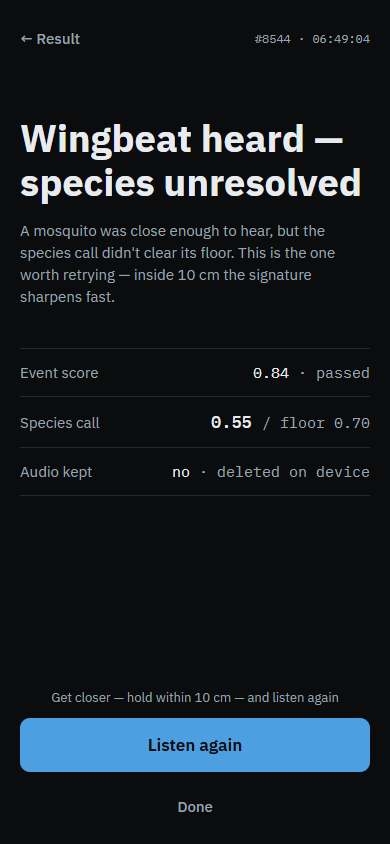
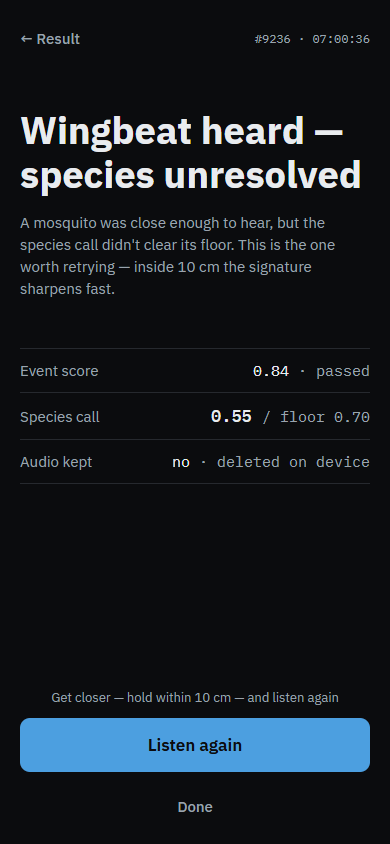
slice 3 fix 1: abstain readings through the seam (red-first), spacing to scale

diff --git a/app/src/app/result.tsx b/app/src/app/result.tsx
@@ -4,7 +4,12 @@ import { Pressable, Text, View } from 'react-native';
 import Animated, { FadeIn } from 'react-native-reanimated';
 import { SafeAreaView } from 'react-native-safe-area-context';
 
-import { BAND_SNR_FLOOR_DB, MED_THRESHOLD, MSC_THRESHOLD } from '@/inference/gating';
+import {
+  type AbstainReadings,
+  BAND_SNR_FLOOR_DB,
+  MED_THRESHOLD,
+  MSC_THRESHOLD,
+} from '@/inference/gating';
 import { useReducedMotion } from '@/lib/useReducedMotion';
 
 type AbstainReason = 'no_mosquito' | 'not_confident' | 'too_noisy';
@@ -22,57 +27,76 @@ type ReadoutRow = {
 type AbstainCopy = {
   headline: string;
   body: string;
-  rows: ReadoutRow[];
+  rows: (r: AbstainReadings) => ReadoutRow[];
   guidance: string;
 };
 
-// Readout values are seeded display values: classify() returns only the Verdict, so the raw
-// MED/MSC/SNR numbers never reach this screen. Floors are real (imported from gating.ts);
-// the scores are plausible instrument readings consistent with each gate's veto order.
-// ponytail: when the pipeline exposes RawInference alongside the Verdict, serialize
-// medScore/mscScores/bandSnrDb through the route params and delete this map.
+// Readout values come from judge()'s AbstainReadings, serialized through the route params by the
+// capture screen — the numbers the gates actually measured, absent when a gate never ran.
+const score = (n: number | undefined) => (typeof n === 'number' && isFinite(n) ? n.toFixed(2) : '—');
+const db = (n: number | undefined) => (typeof n === 'number' && isFinite(n) ? `${n.toFixed(1)} dB` : '—');
+const AUDIO_ROW: ReadoutRow = { label: 'Audio kept', value: 'no', suffix: '· deleted on device' };
+
 const ABSTAIN_COPY: Record<AbstainReason, AbstainCopy> = {
   no_mosquito: {
     headline: 'No mosquito\nin this recording',
     body: "The clip carried no wingbeat signature. Most recordings end here — a clean no is what keeps the map honest. Nothing was saved; nothing left your phone.",
-    rows: [
-      { label: 'Event score', value: '0.21', suffix: `/ floor ${MED_THRESHOLD.toFixed(2)}` },
-      { label: 'Band SNR', value: '11.8 dB', suffix: '· usable' },
-      { label: 'Audio kept', value: 'no', suffix: '· deleted on device' },
+    rows: (r) => [
+      { label: 'Event score', value: score(r.medScore), suffix: `/ floor ${MED_THRESHOLD.toFixed(2)}` },
+      {
+        label: 'Band SNR',
+        value: db(r.bandSnrDb),
+        suffix: r.bandSnrDb >= BAND_SNR_FLOOR_DB ? '· usable' : undefined,
+      },
+      AUDIO_ROW,
     ],
     guidance: 'Get within 10 cm — under a glass is ideal',
   },
   not_confident: {
     headline: 'Wingbeat heard —\nspecies unresolved',
     body: "A mosquito was close enough to hear, but the species call didn't clear its floor. This is the one worth retrying — inside 10 cm the signature sharpens fast.",
-    rows: [
-      { label: 'Event score', value: '0.84', suffix: '· passed' },
+    rows: (r) => [
+      { label: 'Event score', value: score(r.medScore), suffix: '· passed' },
       {
         label: 'Species call',
-        value: '0.55',
+        value: score(r.mscMax),
         suffix: `/ floor ${MSC_THRESHOLD.toFixed(2)}`,
         prominent: true,
       },
-      { label: 'Audio kept', value: 'no', suffix: '· deleted on device' },
+      AUDIO_ROW,
     ],
     guidance: 'Get closer — hold within 10 cm — and listen again',
   },
   too_noisy: {
     headline: 'Too loud here\nto hear a wingbeat',
     body: 'Background sound drowned the wingbeat band before the models could judge it. Refusing beats guessing — a wrong call here would put bad data on the map.',
-    rows: [
+    rows: (r) => [
       {
         label: 'Band SNR',
-        value: '2.1 dB',
+        value: db(r.bandSnrDb),
         suffix: `/ floor ${BAND_SNR_FLOOR_DB} dB`,
         prominent: true,
       },
-      { label: 'Event score', value: '—', suffix: '· not judged' },
-      { label: 'Audio kept', value: 'no', suffix: '· deleted on device' },
+      { label: 'Event score', value: score(r.medScore), suffix: '· not judged' },
+      AUDIO_ROW,
     ],
     guidance: 'Move away from the fan, traffic or TV, then listen again',
   },
 };
+
+/** Route param → readings. Absent/garbled param (direct URL) renders honest dashes, never invents. */
+function parseReadings(param: string | undefined): AbstainReadings {
+  if (param) {
+    try {
+      const parsed = JSON.parse(param) as Partial<AbstainReadings>;
+      if (typeof parsed === 'object' && parsed !== null)
+        return { bandSnrDb: NaN, ...parsed } as AbstainReadings;
+    } catch {
+      // fall through to the empty reading set
+    }
+  }
+  return { bandSnrDb: NaN };
+}
 
 function backToCapture() {
   if (router.canGoBack()) router.back();
@@ -92,7 +116,7 @@ function useCaptureStamp(): string {
 }
 
 export default function Result() {
-  const params = useLocalSearchParams<{ kind?: string; reason?: string }>();
+  const params = useLocalSearchParams<{ kind?: string; reason?: string; readings?: string }>();
   const reducedMotion = useReducedMotion();
   const stamp = useCaptureStamp();
 
@@ -108,6 +132,7 @@ export default function Result() {
 
   const reason = (params.reason ?? 'no_mosquito') as AbstainReason;
   const copy = ABSTAIN_COPY[reason] ?? ABSTAIN_COPY.no_mosquito;
+  const rows = copy.rows(parseReadings(params.readings));
   // Verdict reveal: 240 ms fade. Under prefers-reduced-motion the entering animation is dropped
   // (reanimated also auto-disables it) — the screen appears as a plain crossfade-equivalent cut.
   const reveal = reducedMotion ? undefined : FadeIn.duration(240);
@@ -131,7 +156,7 @@ export default function Result() {
         {/* explicit flex style: className flex-1 is not applied reliably on reanimated views (web) */}
         <Animated.View entering={reveal} style={{ flex: 1 }}>
           {/* verdict */}
-          <View className="mt-14">
+          <View className="mt-12">
             <Text className="font-plex-bold text-[38px] leading-[44px] text-ink">
               {copy.headline}
             </Text>
@@ -139,12 +164,12 @@ export default function Result() {
           </View>
 
           {/* the instrument says why, in its own units */}
-          <View className="mt-10">
-            {copy.rows.map((row, i) => (
+          <View className="mt-12">
+            {rows.map((row, i) => (
               <View
                 key={row.label}
-                className={`flex-row items-center justify-between border-t border-line py-3.5 ${
-                  i === copy.rows.length - 1 ? 'border-b' : ''
+                className={`flex-row items-center justify-between border-t border-line py-3 ${
+                  i === rows.length - 1 ? 'border-b' : ''
                 }`}
               >
                 <Text className="font-plex text-[15px] text-muted">{row.label}</Text>

diff --git a/app/src/inference/gating.ts b/app/src/inference/gating.ts
@@ -37,12 +37,30 @@ export type RawInference = {
 };
 
 /**
+ * The measured numbers an abstain was judged on, populated per veto order — a gate that never ran
+ * contributes nothing (too_noisy vetoes before MED, so it carries no medScore). This is what lets
+ * the result screen show honest readouts instead of invented ones.
+ */
+export type AbstainReadings = {
+  /** Absent when the SNR veto fired before MED was judged. */
+  medScore?: number;
+  /** max(mscScores) — present only when MSC actually ran (not_confident). */
+  mscMax?: number;
+  /** Always measured; the first gate. */
+  bandSnrDb: number;
+};
+
+/**
  * Abstain is the majority outcome, not an error (specs.md §4). Three distinct reasons, because the
  * user's next action differs: nothing there / get closer / go somewhere quieter.
  */
 export type Verdict =
   | { kind: 'detected'; species: Species; confidence: number; detail?: SpeciesDetail }
-  | { kind: 'abstain'; reason: 'no_mosquito' | 'not_confident' | 'too_noisy' };
+  | {
+      kind: 'abstain';
+      reason: 'no_mosquito' | 'not_confident' | 'too_noisy';
+      readings: AbstainReadings;
+    };
 
 export const MED_THRESHOLD = 0.5;
 export const MSC_THRESHOLD = 0.7;
@@ -52,15 +70,31 @@ export const BAND_SNR_FLOOR_DB = 6;
 export function judge(raw: RawInference): Verdict {
   // Noise first: a confident-looking score on an unusable recording is the dangerous case, and
   // outdoor accuracy drops to 67.3%, so the SNR floor must be able to veto a high MSC score.
-  if (raw.bandSnrDb < BAND_SNR_FLOOR_DB) return { kind: 'abstain', reason: 'too_noisy' };
-  if (raw.medScore < MED_THRESHOLD) return { kind: 'abstain', reason: 'no_mosquito' };
+  if (raw.bandSnrDb < BAND_SNR_FLOOR_DB)
+    return { kind: 'abstain', reason: 'too_noisy', readings: { bandSnrDb: raw.bandSnrDb } };
+  if (raw.medScore < MED_THRESHOLD)
+    return {
+      kind: 'abstain',
+      reason: 'no_mosquito',
+      readings: { medScore: raw.medScore, bandSnrDb: raw.bandSnrDb },
+    };
 
   const scores = raw.mscScores;
-  if (!scores) return { kind: 'abstain', reason: 'no_mosquito' };
+  if (!scores)
+    return {
+      kind: 'abstain',
+      reason: 'no_mosquito',
+      readings: { medScore: raw.medScore, bandSnrDb: raw.bandSnrDb },
+    };
 
   const [aedes, notAedes] = scores;
   const confidence = Math.max(aedes, notAedes);
-  if (confidence < MSC_THRESHOLD) return { kind: 'abstain', reason: 'not_confident' };
+  if (confidence < MSC_THRESHOLD)
+    return {
+      kind: 'abstain',
+      reason: 'not_confident',
+      readings: { medScore: raw.medScore, mscMax: confidence, bandSnrDb: raw.bandSnrDb },
+    };
 
   // detail is passed through untouched and never gates. A low-confidence sex head must not be able
   // to suppress a solid Aedes detection — the fogging decision depends only on the bucket.

diff --git a/app/src/inference/gating.check.ts b/app/src/inference/gating.check.ts
@@ -31,18 +31,36 @@ assert.deepEqual(judge(clip({ mscScores: [0.1, 0.9] })), {
   confidence: 0.9,
 });
 
-// the three abstains
-assert.deepEqual(judge(clip({ medScore: 0.49 })), { kind: 'abstain', reason: 'no_mosquito' });
+// the three abstains — each carries the measured numbers it was judged on (readings), populated
+// per veto order: too_noisy vetoes before MED runs, so it carries no medScore.
+assert.deepEqual(judge(clip({ medScore: 0.49 })), {
+  kind: 'abstain',
+  reason: 'no_mosquito',
+  readings: { medScore: 0.49, bandSnrDb: 20 },
+});
 assert.deepEqual(judge(clip({ mscScores: [0.69, 0.31] })), {
   kind: 'abstain',
   reason: 'not_confident',
+  readings: { medScore: 0.9, mscMax: 0.69, bandSnrDb: 20 },
 });
-assert.deepEqual(judge(clip({ bandSnrDb: 5 })), { kind: 'abstain', reason: 'too_noisy' });
+assert.deepEqual(judge(clip({ bandSnrDb: 5 })), {
+  kind: 'abstain',
+  reason: 'too_noisy',
+  readings: { bandSnrDb: 5 },
+});
+
+// MED passed but MSC never ran (head absent) — reported as no_mosquito, readings show what was judged
+assert.deepEqual(judge(clip({ mscScores: undefined })), {
+  kind: 'abstain',
+  reason: 'no_mosquito',
+  readings: { medScore: 0.9, bandSnrDb: 20 },
+});
 
 // noise vetoes a confident score — the whole reason SNR is checked first
 assert.deepEqual(judge(clip({ medScore: 0.99, mscScores: [0.99, 0.01], bandSnrDb: 0 })), {
   kind: 'abstain',
   reason: 'too_noisy',
+  readings: { bandSnrDb: 0 },
 });
 
 // boundaries are inclusive: exactly at threshold passes
@@ -63,6 +81,10 @@ assert.equal('detail' in judge(clip({})), false);
 assert.deepEqual(judge(clip({ bandSnrDb: 0, detail: { sex: { value: 'female', confidence: 0.99 } } })), {
   kind: 'abstain',
   reason: 'too_noisy',
+  readings: { bandSnrDb: 0 },
 });
+
+// detected verdicts carry NO readings — slice 4 consumes this shape unchanged
+assert.equal('readings' in judge(clip({})), false);
 
 console.log('gating: ok');

diff --git a/app/src/app/index.tsx b/app/src/app/index.tsx
@@ -19,7 +19,8 @@ const WEEK_MS = 7 * 24 * 60 * 60 * 1000;
 type Phase = 'idle' | 'listening' | 'analyzing';
 
 function serialize(v: Verdict): Record<string, string> {
-  if (v.kind === 'abstain') return { kind: v.kind, reason: v.reason };
+  if (v.kind === 'abstain')
+    return { kind: v.kind, reason: v.reason, readings: JSON.stringify(v.readings) };
   return {
     kind: v.kind,
     species: v.species,
